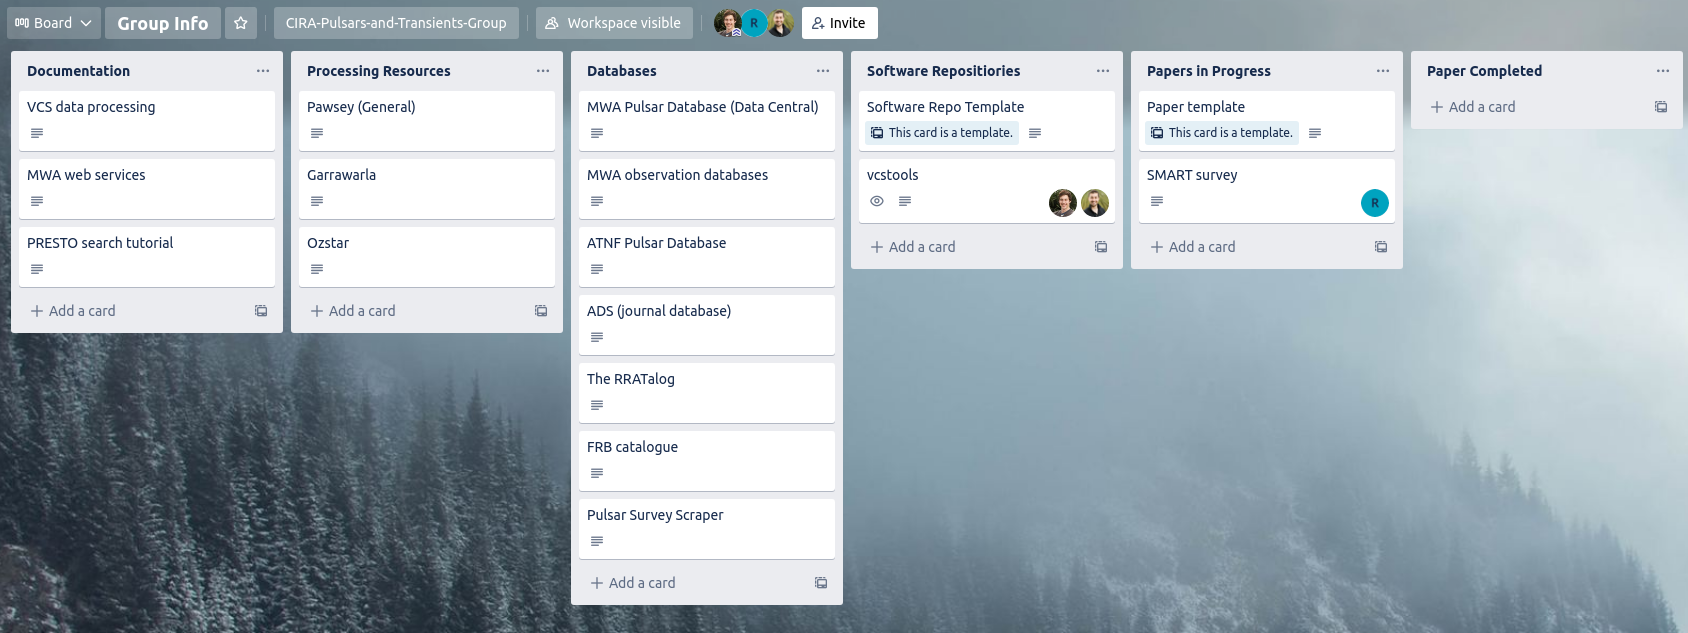
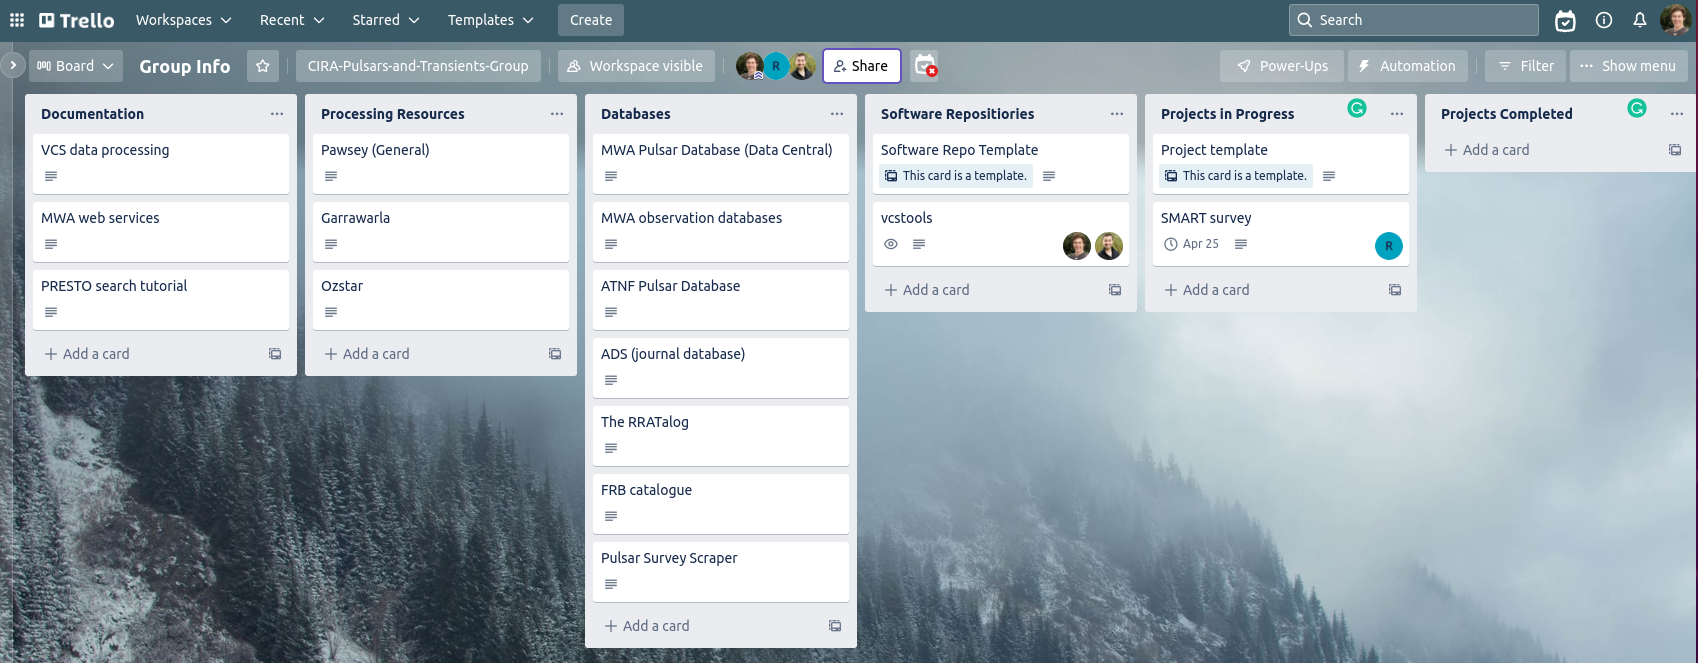
Tried to expand a few of the explanations to include the motivation or benfit behind each step

diff --git a/_episodes/03-trello.md b/_episodes/03-trello.md
@@ -17,18 +17,20 @@ keypoints:
 # Trello
 Trello is one of the most popular project management applications thanks to it being easy to use and flexible. If you have not already, create a Trello account [here](https://trello.com/).
 ## Making your first workspace and board
-When you first make a Trello account you will see this screen.
+When you first make a Trello account, you will see this screen.
 
 ![trello_first_workspace](../fig/trello_first_workspace.png)
 
-We recommend that you name your first Workspace "Personal" (you can change this later). Click continue and then skip the free trail.
+You can think of a Workspace as a collection of research group projects. We recommend that you name your first Workspace "Personal" (you can change this later). Click continue and then skip the free trial.
 
-You can then click "Create your first board" and name it something related to your work like "Research". There are several useful templates but for now we will show you how to make one from scratch.
+You can then click "Create your first board" and name it something related to your work, like "Research". You can think of a board as a place where you will manage a single large project (E.g. your PhD, a paper or an enormous processing task). There are several useful templates, but for now, we will show you how to make one from scratch.
 
 ![trello_first_board](../fig/trello_first_board.png)
 
 ## Project Plan
-Once you have made the project Trello board, the first thing you should do is fill in the description (or a card) with your project plan. You can add a description by pressing "Show Menu" (top right) and clicking on the description. The following is our recommended description template which is excellent for collaborative projects but you may also find helpful for personal projects.
+Once you have made the project Trello board, the first thing you should do is fill in the description (or a card) with your project plan. You can add a description by pressing "Show Menu" (top right) and clicking on the description. A project plan will help you set a clear goal and ensure you immediately consider things like documentation and data storage. Once the project is complete you can reflect on your project plan to find ways you can improve.
+
+The following is our recommended project plan template. Depending on the project, some items will be more important than others but it is still important to consider all items.
 
 ~~~
 Title
@@ -69,34 +71,34 @@ In research, there are rarely hard deadlines for project completion, but it is s
 Stating all the collaborators and their roles will clarify who holds which responsibilities from the beginning. The Full-Time Equivalent (FTE) has two purposes; it will give the project lead an idea of how much work they can assign and for the collaborators' reference to track how much time they have already committed before accepting new projects.
 
 ### Goals
-These goals can be brief and straightforward (e.g. publish a paper and process some data) and used to keep the project on track. When deciding on the next steps, you should consider the project's goals to ensure that you are not doing work that is outside the scope of the project.
+When deciding on the next steps, you should consider the project's goals to ensure that you are not doing work outside the project's scope. These goals can be brief and straightforward (e.g. publish a paper and process some data) and used to keep the project on track. You should consider the impact and work required for each goal to ensure it is worth the effort. If your goals change midway through the project, it is essential to reaccess the project plan.
 
 ### Requirements
-There are likely some supercomputing or telescope requirements for your project. It is important to state these early on to plan proposals and estimate when you will get processed data.
+There are likely supercomputing or telescope requirements for your project. It is important to state these early on to plan proposals and estimate when you will get processed data.
 
 ### Risks and mitigation measures
-If your proposals are not accepted, are there other telescopes or supercomputers that you can use? Will you back up your data in case the supercomputer crashes and you lose it? A quick consideration of the risks and what you can do to mitigate them can save you a lot of pain down the road
+If your proposals are not accepted, are there other telescopes or supercomputers you can use? Will you back up your data in case the supercomputer crashes and you lose it? A quick consideration of the risks and what you can do to mitigate them can save you a lot of pain down the road
 
 ### Software
-If you're developing software as part of this project, you should include the GitHub repository link. If there is software that you depend on or are adapting, it is useful to include those links here. Where possible, you should version control your software within your groups' GitHub organisation
+If you're developing software as part of this project, you should include the GitHub repository link. If there is software that you depend on or are adapting, it is useful to have those links here. Where possible, you should version control your software within your groups' GitHub organisation. It is also important to consider how this software will be used in the future and adapt good coding practices from the beginning.
 
 ### Documentation
-Here, you can link the documentation you're developing or any other helpful documentation.
+Here, you can link the documentation you're developing or any other helpful documentation. Deciding on what documentation is required will make it easier to develop as you go. It is much more difficult to create documentation at the end of the project when you have forgotten some of your processing decisions.
 
 ### Data storage
-The best method of data storage is very project dependent. How to access the data should be described here, which could be a link to cloud storage or the directory on a supercomputer. E.g. Google drive, R drive or CloudStor and who has access
+The best method of data storage is very project dependent. Deciding where to store the data initially will make it easier to share data with collaborators during the project. How to access the data should be described here, which could be a link to cloud storage or the directory on a supercomputer. E.g. Google drive, R drive or CloudStor and who has access.
 
 ## Creating cards
-YOu can think of each Trello card as a single task (even if that task has several steps). Click "Add a card" and give in a simple title. You can then click on the card and give it a description.
+You can think of each Trello card as a single task (even if that task has several steps). Click "Add a card" and give in a simple title. You can then click on the card and give it a description.
 
 ![simple_card](../fig/simple_card.png)
 
 You can then add to the card so it contains more information
-- Members: You can assign users to cards so you can easily see who is working on task.
-- Labels: The labels are customizable so you can use them in any way that you find useful. You can label you cards into types of tasks (Eg. processing, writing, researching) or urgency for example.
-- Checklist: You can use checklists to keep track of which steps you have completed.
-- Dates: You can set a due date and set yourself due date reminders.
-- Attachments: You can attach any type file. You can attach files in comments so you can explain what changes you've made to the image and have a record of all image versions.
+- Members: You can assign users to cards so you can easily see who is working on the task.
+- Labels: The labels are customisable, so you can use them in any way that you find useful. You can label your cards into types of tasks (Eg. processing, writing, researching) or urgency, for example.
+- Checklist: You can use checklists to track which steps you have completed.
+- Dates: You can set a due date and set yourself due to date reminders.
+- Attachments: You can attach any type of file. You can attach files in the comments so you can explain what changes you've made to the image and have a record of all image versions.
 - Comment: You can use comments to keep notes of what you've done and even commands you've run and their output
 
 Here is an example of what the card could look like
@@ -105,25 +107,25 @@ Here is an example of what the card could look like
 ![detailed_card](../fig/detailed_card.png)
 
 ## Making card templates
-Card templates are useful as reminders or what information to include or to save yourself time when you know you will be making a large number of similar cards.
+Card templates are useful as reminders of what information to include or save yourself time when you know you will be making many similar cards.
 
 Here is an example of a simple template
 ![template_card](../fig/template_card.png)
 I created this template by filling in the description and clicking "Make template" at the bottom right of the card. You can now make new cards from this template and use the text as a reminder of what you should include.
 
-Templates are also useful for keeping track of processing steps. Here is an example of a processing template which will remind you of the data to record and has a checklist to help me keep track of which step you are on.
+Templates are also useful for keeping track of processing steps. Here is an example of a processing template that will remind you of the data to record and has a checklist to help me keep track of which step you are on.
 ![processing_template](../fig/processing_template.png)
 
 ## Creating research group workspaces
-You can make a Trello workspace for your research group that will allow all workspace users to have access to all of the Trello boards within the workspace. You can make a new workspace by clicking Trello then the new workspace button.
+You can make a Trello workspace for your research group that will allow all workspace users to access all of the Trello boards within the workspace. You can create a new workspace by clicking Trello and then the new workspace button.
 
 ![make_workspace](../fig/make_workspaces.png)
 
-You can then name your workspace whatever you wish
+You can then name your workspace whatever you wish.
 
 ![pulsar_workspace](../fig/pulsar_workspace.png)
 
-Then add members by sending them an email invite
+Then add members by sending them an email invite.
 
 ![add_members](../fig/add_members.png)
 
@@ -131,11 +133,10 @@ You can then create a board for every large project you have. All members of you
 
 ![several_boards](../fig/several_boards.png)
 
-Recomendations on how to uses these boards effectively will be covered in the following episodes
-<!--TODO add links to the episodes-->
+Recommendations on how to use these boards effectively will be covered in the [following episodes](../07-paper_collaboration)
 
 ### Private boards
-By default, all workspace members have access to the boards in said workspace. If you have private data that you are not ready to share with everyone in your group you can switch your board to private.
+By default, all workspace members have access to the boards in the said workspace. If you have private data that you are not ready to share with everyone in your group, you can switch your board to private.
 
 ![make_private](../fig/make_private.png)
 

diff --git a/_episodes/04-personal_template.md b/_episodes/04-personal_template.md
@@ -47,8 +47,11 @@ You can see that the "Finish research presentation" is due tomorrow so you shoul
 > If you're interested here is a [Jira Fundamentals course](https://university.atlassian.com/student/collection/850385/path/1083901)
 {: .callout}
 
+### Alternate task metric
+Instead of thinking of your priority matrix in terms of importance and urgency, you can instead use impact (research output) and effort (time spent working). This is useful when considering which projects to take on and their goals. Succesful researchers are often skilled at choosing projects that are high impact with minimal effort.
+
 ## Time management
- It is essential to decide what fraction of your time, also known as Full-Time Equivalent (FTE), you want to allocate to each project you are working on to ensure that you are not spread too thin and you can finish tasks on time. For example, you have been asked to help with another project, but you have two projects you spend 0.4 FTE on and a third you spend 0.2 FTE on. Since you have no remaining FTE, you let them know that you can not assist on their project, but you know that your third project will be complete in a month, so you promise them 0.2 FTE starting in a month. This will prevent you from taking on more work once you no longer have any FTE available.
+It is essential to decide what fraction of your time, also known as Full-Time Equivalent (FTE), you want to allocate to each project you are working on to ensure that you are not spread too thin and you can finish tasks on time. For example, you have been asked to help with another project, but you have two projects you spend 0.4 FTE on and a third you spend 0.2 FTE on. Since you have no remaining FTE, you let them know that you can not assist on their project, but you know that your third project will be complete in a month, so you promise them 0.2 FTE starting in a month. This will prevent you from taking on more work once you no longer have any FTE available.
 
 Deciding where you spend your FTE is only half the battle. You must also make sure you're only spending the FTE you have budgeted. Tracking your time can be done through several apps ([see the following section](#time-tracking-apps)) and should give you at least a rough estimate of the time you spend on each project. This basic information will allow you to see how much time tasks and projects take and improve your future estimates. For example, you estimated that it would take you a month to write the first chapter of your thesis, but it took six weeks. You now know to budget more time for the next chapter. Another example is that you budget 0.5 FTE for teaching, but you realise you are using 0.6 FTE, so you will have to cut back on other projects.
 

diff --git a/_episodes/05-group_template.md b/_episodes/05-group_template.md
@@ -31,8 +31,8 @@ Here you can describe all of your groups databases, where you can access them an
 ### Software repositories
 It is best to keep as many as possible repositories in your group's GitHub organisation but that is not always possible. For this reason, listing all of repositories that your group uses is useful. You should include the GitHub and documentations links and the maintainers.
 
-### Papers
-For each paper you can create a card which includes a link to the Trello board for that paper and the person leading the paper. The lead can include a summary of the project each week to update to the group on it's progress. Once they're complete they can be moved to the completed list and links to the final paper version can be included for future reference.
+### Projects
+For each project you can create a card which includes a link to the Trello board for that project and the person leading the project. The lead can include a summary of the project each week to update to the group on it's progress. Once they're complete they can be moved to the completed list and links to the final project version can be included for future reference.
 
 {% include links.md %}
 

diff --git a/_episodes/07-paper_collaboration.md b/_episodes/07-paper_collaboration.md
@@ -16,7 +16,7 @@ keypoints:
 It will be benifical to project manage any large peice of work, whether it is software, processing or analyising data. All of which may turn into a paper which you can also manage on the same Trello board.
 
 ## Project Plan
-Your first metting for the project should involve planning. Filling out the [description template](../03-trello/#project-plan) will likely cover all the important points such as each collaborators roles and FTE commitment, the goals and where software and data will be stored.
+Your first metting for the project should involve planning. Filling out the [project plan template](../03-trello/#project-plan) will likely cover all the important points such as each collaborators roles and FTE commitment, the goals and where software and data will be stored.
 
 ## Recommended Trello template
 The standard to do, in progress and done lists are usually sufficient but feel free to add more. The following labels will likely be helpful.
